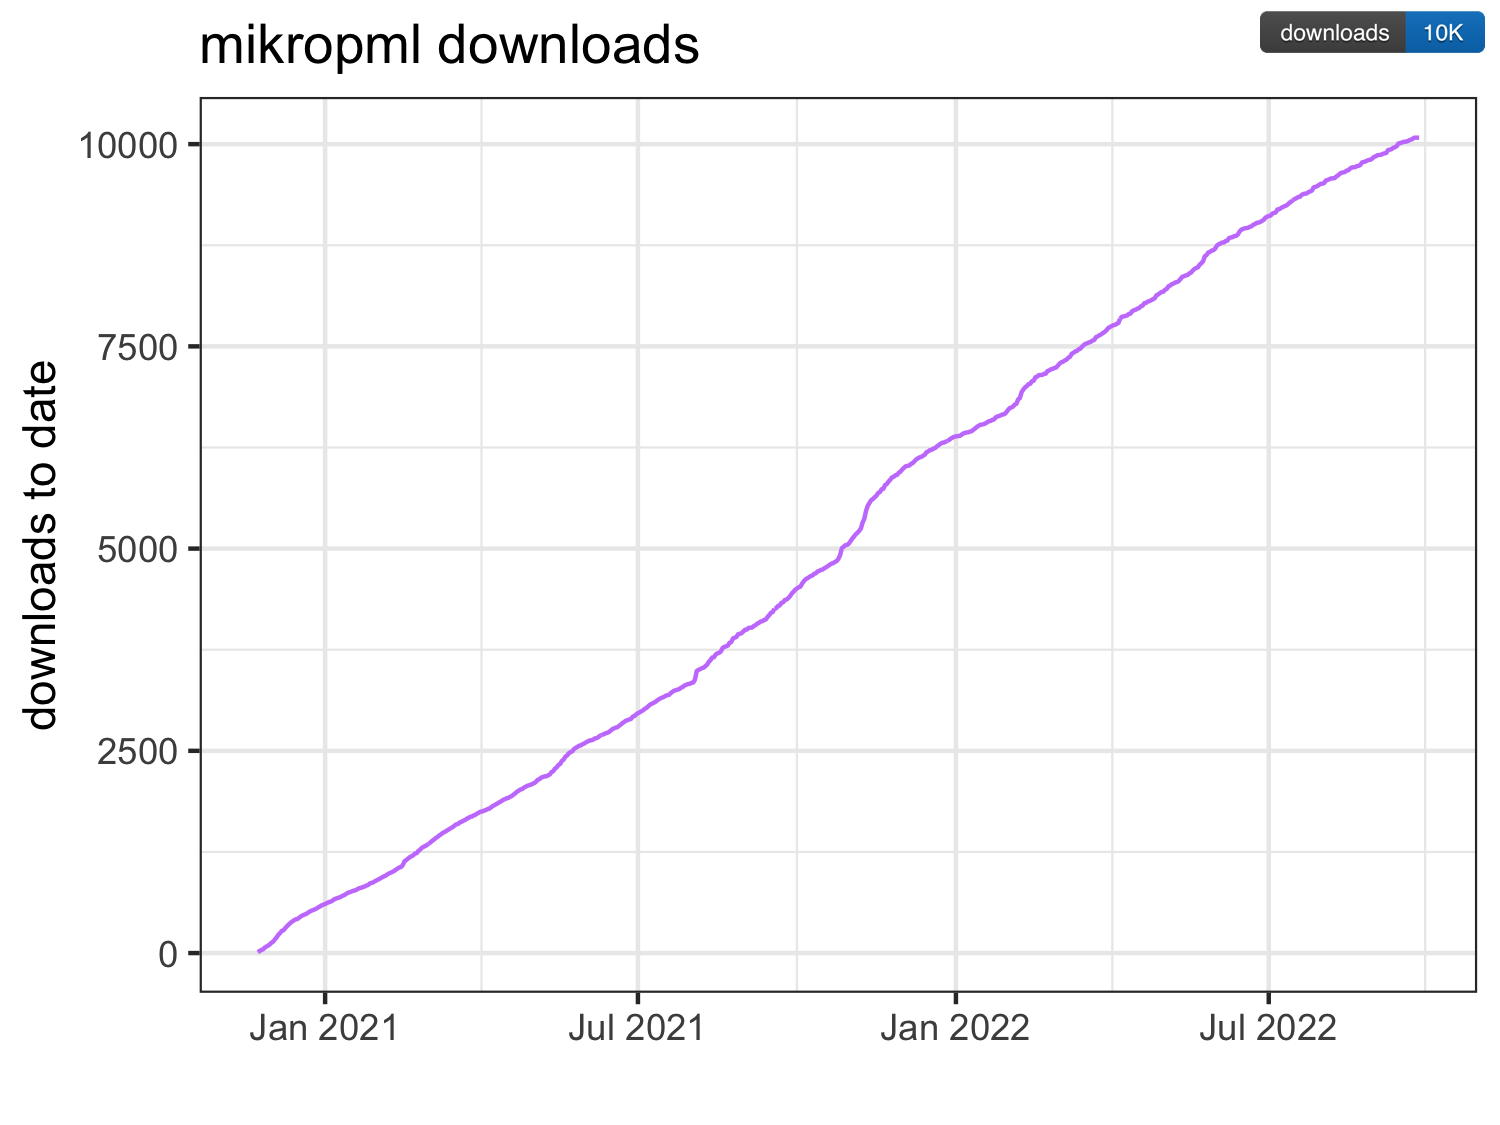
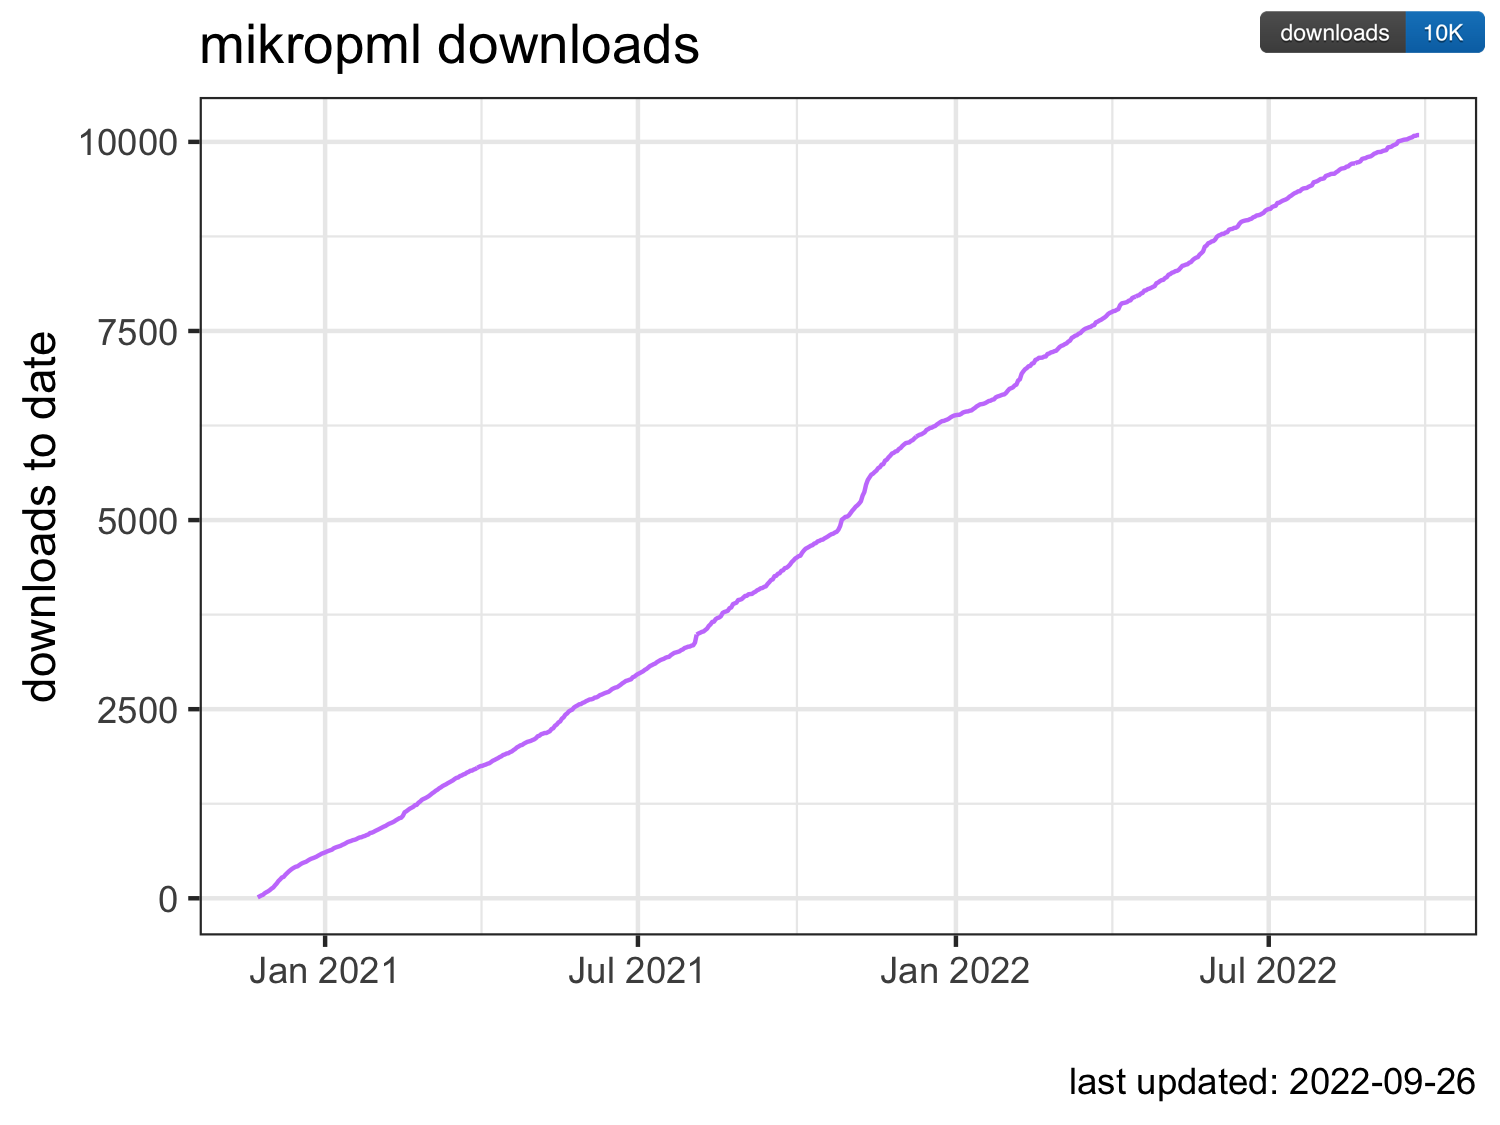
Add last updated date to plot caption

diff --git a/README.md b/README.md
@@ -14,11 +14,10 @@ counts from `cranlogs`
 ``` r
 library(cranlogs)
 library(cowplot)
+library(glue)
 library(magick)
 library(rsvg)
 library(tidyverse)
-#> Warning: package 'purrr' was built under R version 4.1.2
-#> Warning: package 'stringr' was built under R version 4.1.2
 ```
 
 ## Download the downloads
@@ -55,7 +54,9 @@ downloads_plot <- downloads %>%
     geom_line(color = '#c882fc') + 
     scale_x_date(date_labels = "%b %Y") + 
     theme_bw() + 
-    labs(x = '', y = 'downloads to date', title = 'mikropml downloads')
+    labs(x = '', y = 'downloads to date', 
+         title = 'mikropml downloads',
+         caption = glue("last updated: {Sys.Date()}"))
 
 ggdraw() +
     draw_plot(downloads_plot) +
@@ -66,5 +67,3 @@ ggdraw() +
 ```
 
 ![](figures/plot-downloads-time-1.png)<!-- -->
-
-last updated: 2022-09-26
